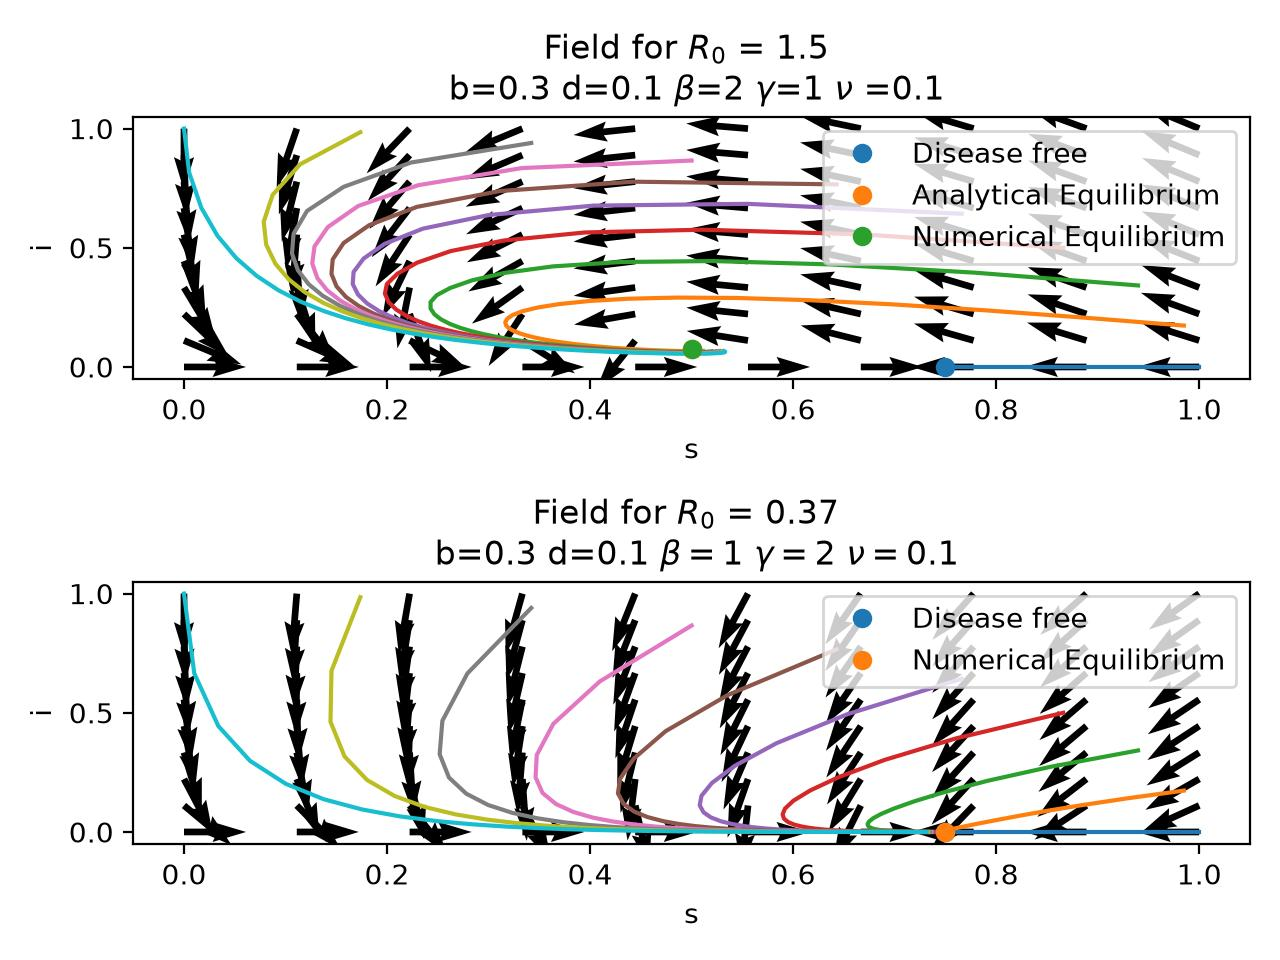
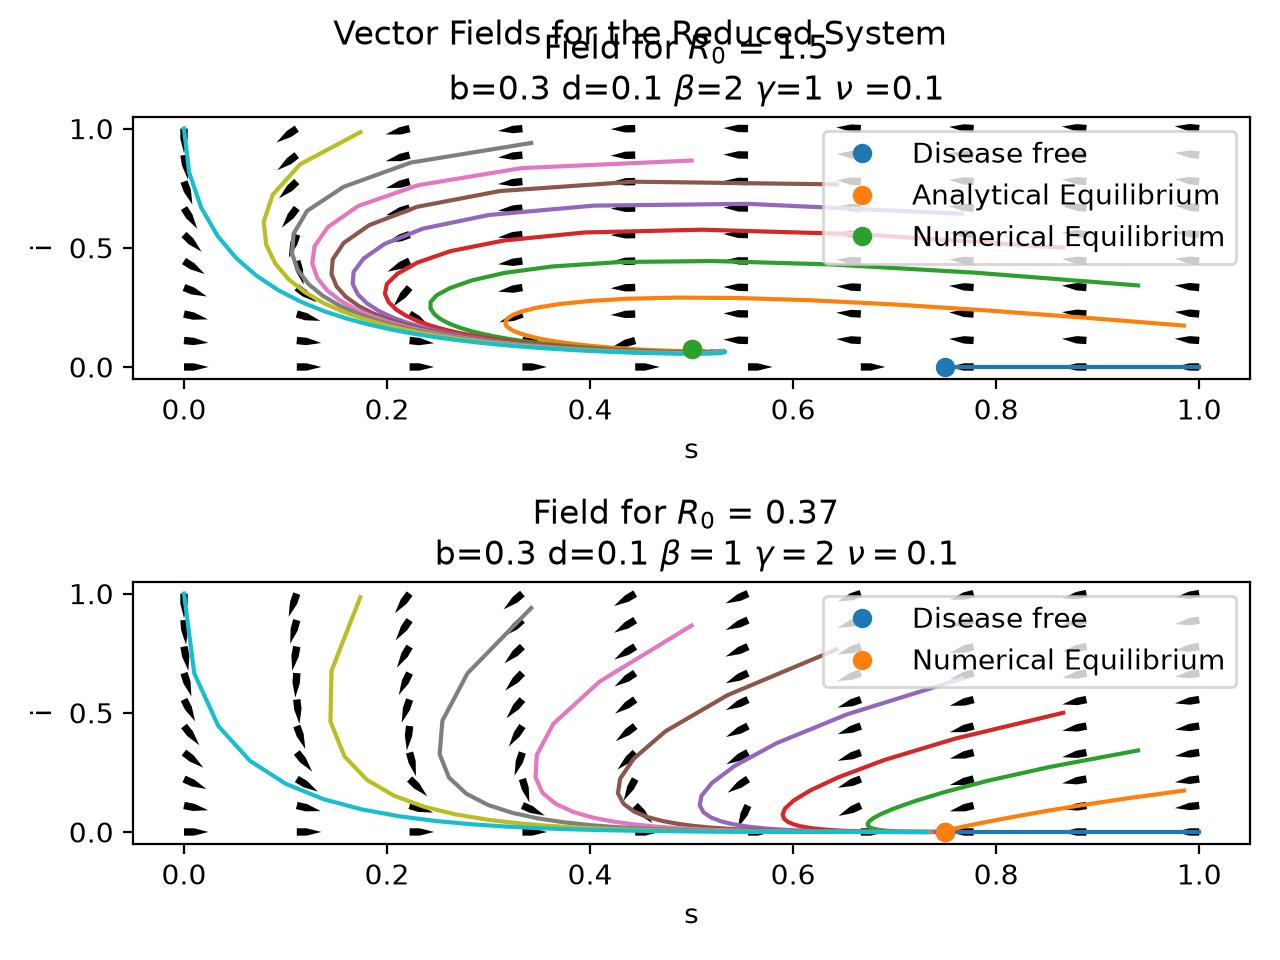
removed old figures, started bifurcation diagram development

diff --git a/development/bifurcation.py b/development/bifurcation.py
@@ -1,0 +1,32 @@
+import numpy as np
+import maptlotlib.pyplot as plt
+
+
+b = 0.3
+d = 0.1
+beta = 2
+gamma = 1
+nu = 0.1
+
+def indicator(beta):
+  return np.where(beta<1,0,1)
+def r_0(b,beta,gamma,nu):
+  r = (beta/gamma)*(b/(b+nu))
+  return r
+beta = np.linspace(0,5,200)
+R_0 = r_0(b,beta,gamma,nu)
+mask = (R_0 >1) 
+i_star = lambda x : (b+delta)*(1-1/x)/(b+gamma+delta)
+plt.plot(R_0[mask],indicator(R_0)[mask]*i_star(R_0)[mask],c='blue',label=r'$P^\star$')
+plt.plot(R_0[R_0>=2],indicator(R_0)[R_0>=2]*i_star(R_0)[R_0>=2],c='blue',linestyle='--',dashes=(3,2))
+plt.plot(R_0[R_0<1],i_star(R_0)[R_0<1]*indicator(R_0)[R_0<1],c='black',label=r'$P_0$')
+plt.hlines(y=0,xmin=1,xmax=np.max(R_0),color='black',linestyles='dashed')
+plt.scatter([1.],[0.],facecolors='none',linewidths=2,s=80,zorder=4,edgecolors="tab:red",label = r"$R_0=1$")
+plt.scatter([2+delta/(b+gamma)],[i_star(2+delta/(b+gamma))],facecolors='none',linewidths=2,s=80,zorder=4,edgecolors="tab:purple",label = r"$R_0=2+\frac{\delta}{b+\gamma}$")
+plt.title(rf"Bifurcation diagram for {'\n'} $b$ = {b}  $\beta$ = {gamma}, $\gamma = $ {delta} $\nu = {nu}$")
+plt.ylabel(r'$I^\star$')
+plt.xlabel(r'$R_0$')
+plt.legend()
+plt.grid()
+plt.tight_layout()
+plt.show()

diff --git a/stability.py b/stability.py
@@ -14,7 +14,7 @@ def sys(t,v):
     return val
 
 R_0 = (beta/gamma)*(b/(b+nu))
-print(f"R_0 Value: {R_0}")
+#print(f"R_0 Value: {R_0}")
 J_P0 = np.array([
     [-b-nu,-b-(beta*b)/(b+gamma)],
     [0, (beta*b)/(b+gamma)-gamma]
@@ -38,7 +38,7 @@ X,Y = np.meshgrid(points,points)
 U,V = stability_system(b,d,beta,gamma,nu,X,Y)
 L = np.hypot(U,V)
 L[L==0]=1
-ax[0].quiver(X,Y,0.1*(U/L),0.1*(V/L))
+ax[0].quiver(X,Y,U/L,V/L,angles='xy',units='xy',scale=30,width=0.01,headwidth=1,headlength=2)
 for y0 in ini:
     sol = solve_ivp(sys,(0,10),y0,t_eval=np.linspace(0,10))
     x,y = sol.y
@@ -78,7 +78,7 @@ X,Y = np.meshgrid(points,points)
 U,V = stability_system(b,d,beta,gamma,nu,X,Y)
 L = np.hypot(U,V)
 L[L==0]=1
-ax[1].quiver(X,Y,0.1*(U/L),0.1*(V/L))
+ax[1].quiver(X,Y,U/L,V/L,angles='xy',units='xy',scale=30,width=0.01,headwidth=1,headlength=2)
 for y0 in ini:
     sol = solve_ivp(sys,(0,10),y0,t_eval=np.linspace(0,10))
     x,y = sol.y
@@ -91,5 +91,9 @@ ax[1].set_xlabel('s')
 ax[1].set_ylabel('i')
 ax[1].legend()
 plt.tight_layout()
+plt.suptitle("Vector Fields for the Reduced System")
 plt.savefig(f'figures/stability_field.jpg',dpi=200)
 plt.show()
+
+
+

diff --git a/run_model.py b/run_model.py
@@ -62,11 +62,11 @@ b_1 = points[7,:]
 
 
 plt.figure(figsize=(13,8))
-plt.plot(t,s_1, label='Infants < 1')
+plt.plot(t,s_1, label='Children < 5')
 plt.plot(t,s_2, label='Everyone Else')
-plt.plot(t,i_1, label='Infected Infants < 1')
+plt.plot(t,i_1, label='Infected Children < 5')
 plt.plot(t,i_2, label='Infected Everyone Else')
-plt.plot(t,r_1, label='Recovered Infants < 1')
+plt.plot(t,r_1, label='Recovered Children < 5')
 plt.plot(t,r_2, label='Recovered Everyone Else')
 plt.plot(t,b_1, label='SSPE Incidence')
 plt.xlabel('Time')
@@ -81,13 +81,13 @@ plt.close()
 
 
 fig, ax = plt.subplots(1,2,figsize=(13,8))
-ax[0].plot(t,b_1, label='SSPE Incidence < 1')
+ax[0].plot(t,b_1, label='SSPE Incidence Children < 5')
 ax[0].set_xlabel('Time')
 ax[0].set_ylabel('Percentage')
 ax[0].set_title(f"SSPE Incidence\n sspe_rate = {np.round(delta,3)} vaccination_rate {nu}")
 ax[0].grid()
 ax[0].legend()
-ax[1].plot(t,r_2, label='Recovered')
+ax[1].plot(t,r_1, label='Recovered Children < 5')
 ax[1].set_xlabel('Time')
 ax[1].set_ylabel('Percentage')
 ax[1].grid()
